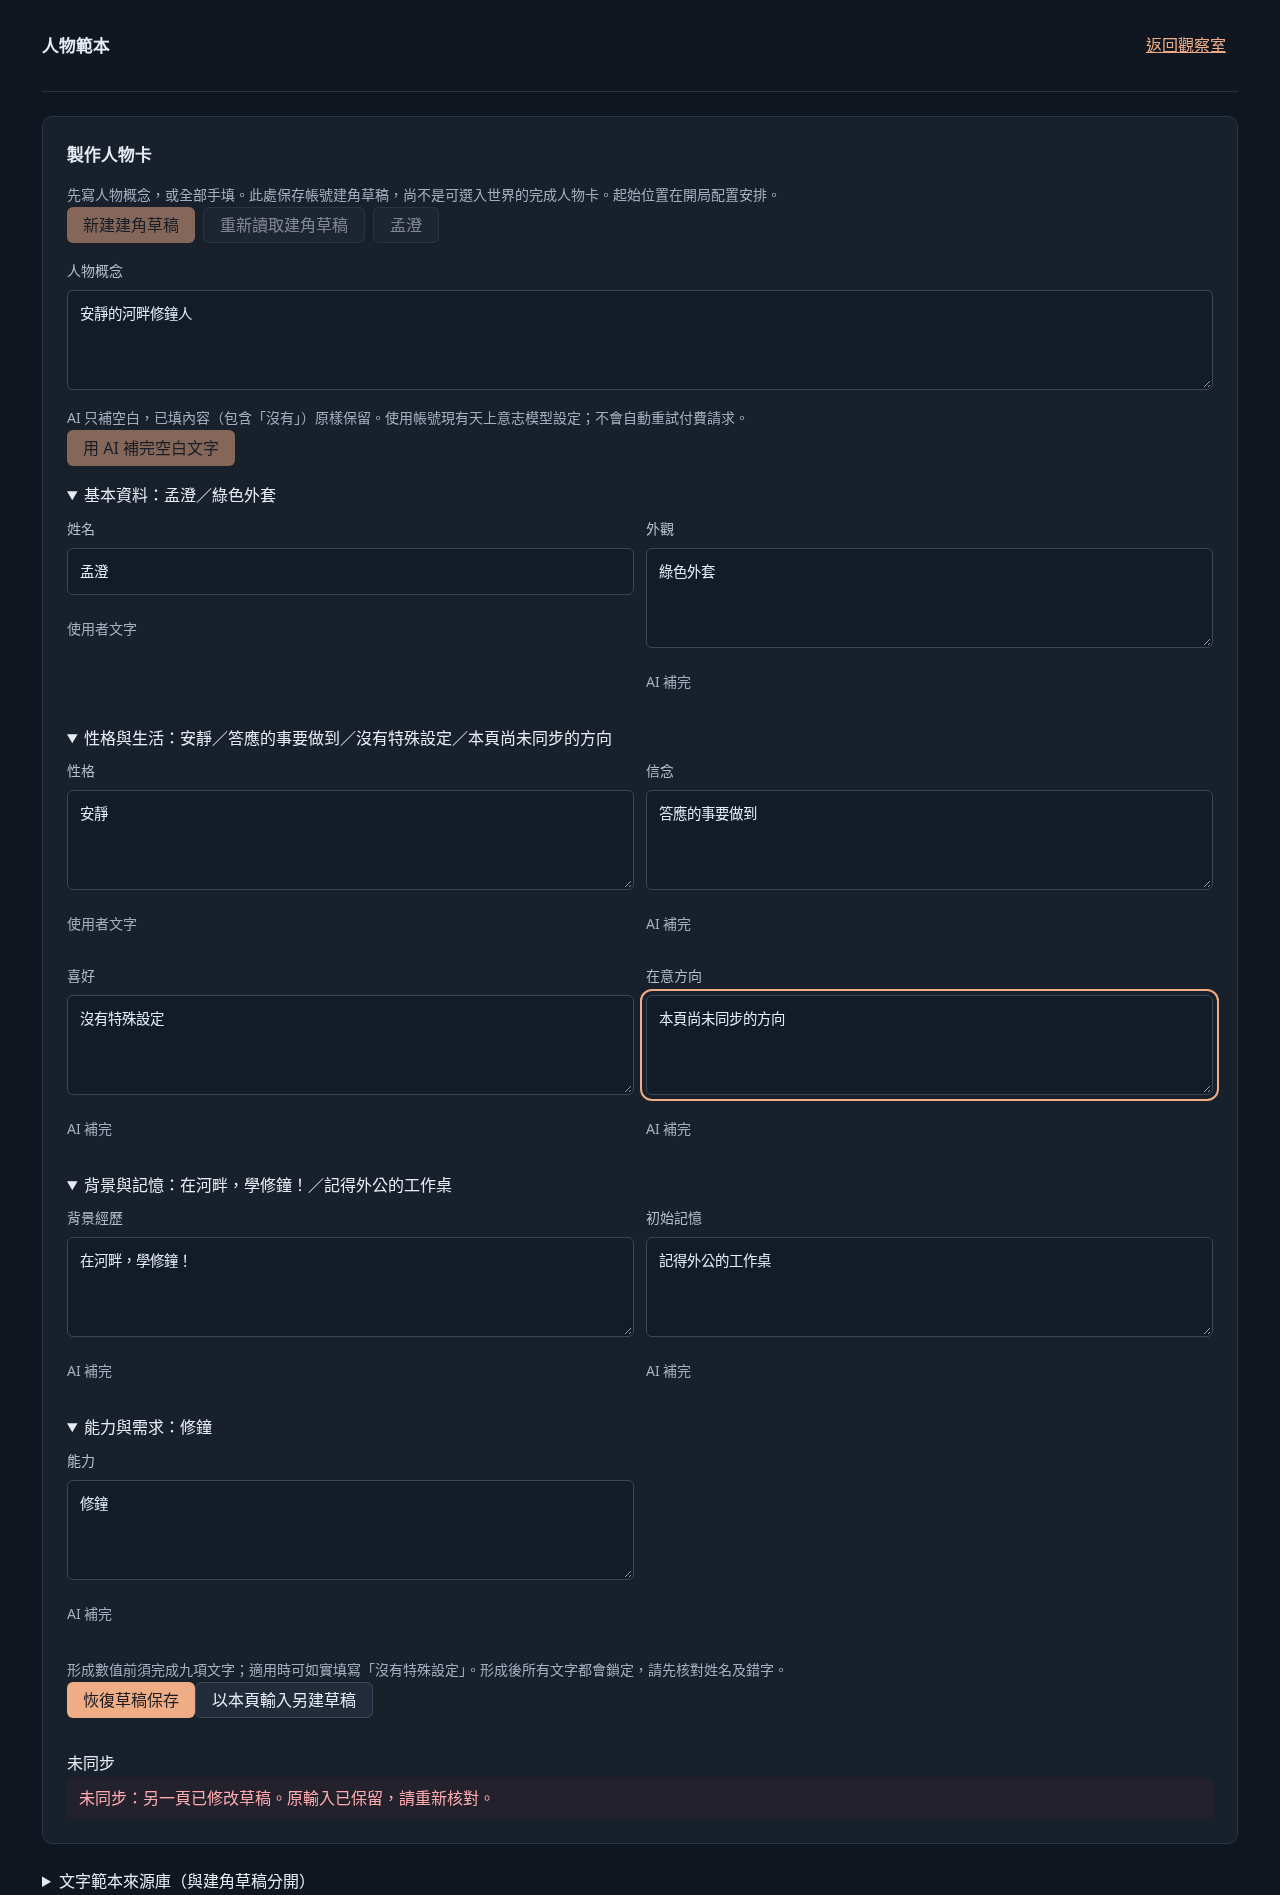
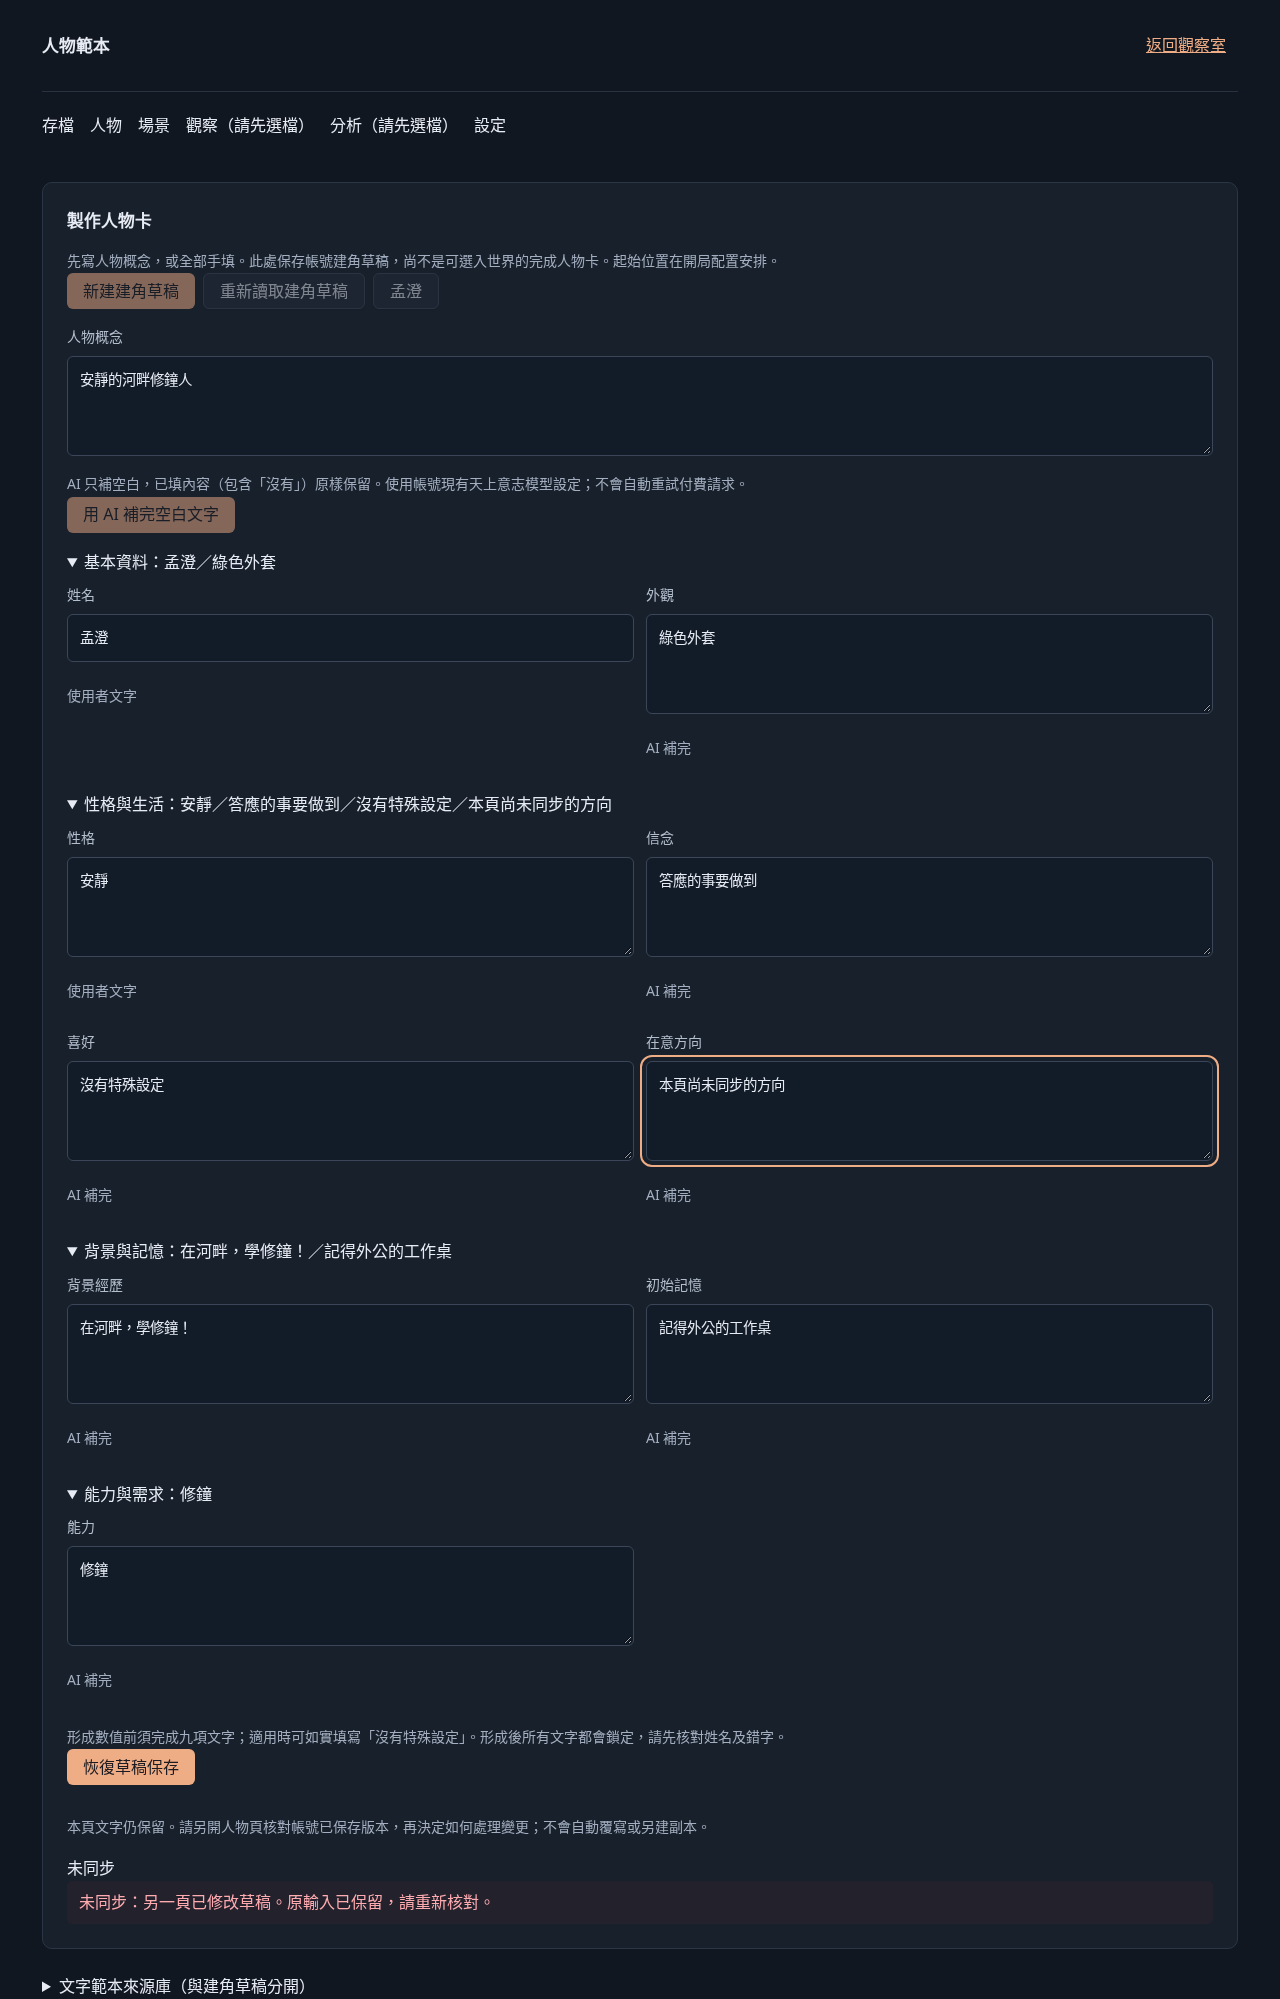
docs: 記錄帳號製作不造世界的整合驗收 #284

diff --git a/docs/verification/character-drafts-284.md b/docs/verification/character-drafts-284.md
@@ -33,3 +33,11 @@
 新增 `0013_character_drafts.sql`，只加帳號建角草稿表；本票沒有轉換世界或已形成角色。只在隔離資料庫套用，沒有正式遷移。回退舊程式可保留新表；刪表會失去新草稿，不應作無資料備份的回退方式。
 
 舊人物文字範本來源庫保留，與建角草稿分開呈現。本票不交付完成卡、鎖定／配點、五步開局或數值形成；缺模型時原頁設定由 #285 接續。本機身分是 cookie 替身，非正式 OAuth；沒有操作正式世界、部署、合併 main 或使用真實付費模型。
+
+## T1／T2 接合後驗收
+
+`af60b6f` 接合最新 integration，人物頁同時保留共同導覽與建角編輯器；`4ea27a1` 將原文字範本補完也接至帳號製作空間，不隱式建立舊世界。5 項 API 再次全過、typecheck 通過、lint 0 errors／4 既有 warnings、diffcheck 通過。
+
+真正 App Router／磁碟 SQLite／Chromium 以 runtime **`4ea27a1`** 重跑通過（畫面及 evidence 已更新）：首次存檔空狀態 → 共同導覽人物 → 手填建角 → 受控補完 → 保存重載／另一裝置 → 衝突保留輸入 → 返回存檔仍空狀態。製作前後 `/api/saves` 均為空，未指定存檔的 `/api/world` 回 409；建角與模型設定不建立可玩世界。受控模型 1 次，正式模型及付費 0 次。
+
+命令：`PLAYWRIGHT_MODULE=/tmp/quiet-hours-browser/node_modules/playwright CHROMIUM_EXECUTABLE=/tmp/chromium BROWSER_ARTIFACT_DIR=/tmp/t3-integration-browser node tooling/verification/browser-character-drafts-284.mjs`。此試次直接使用整合的共享 runner，無額外 REAL_ROUTE_RUNTIME 覆寫。
